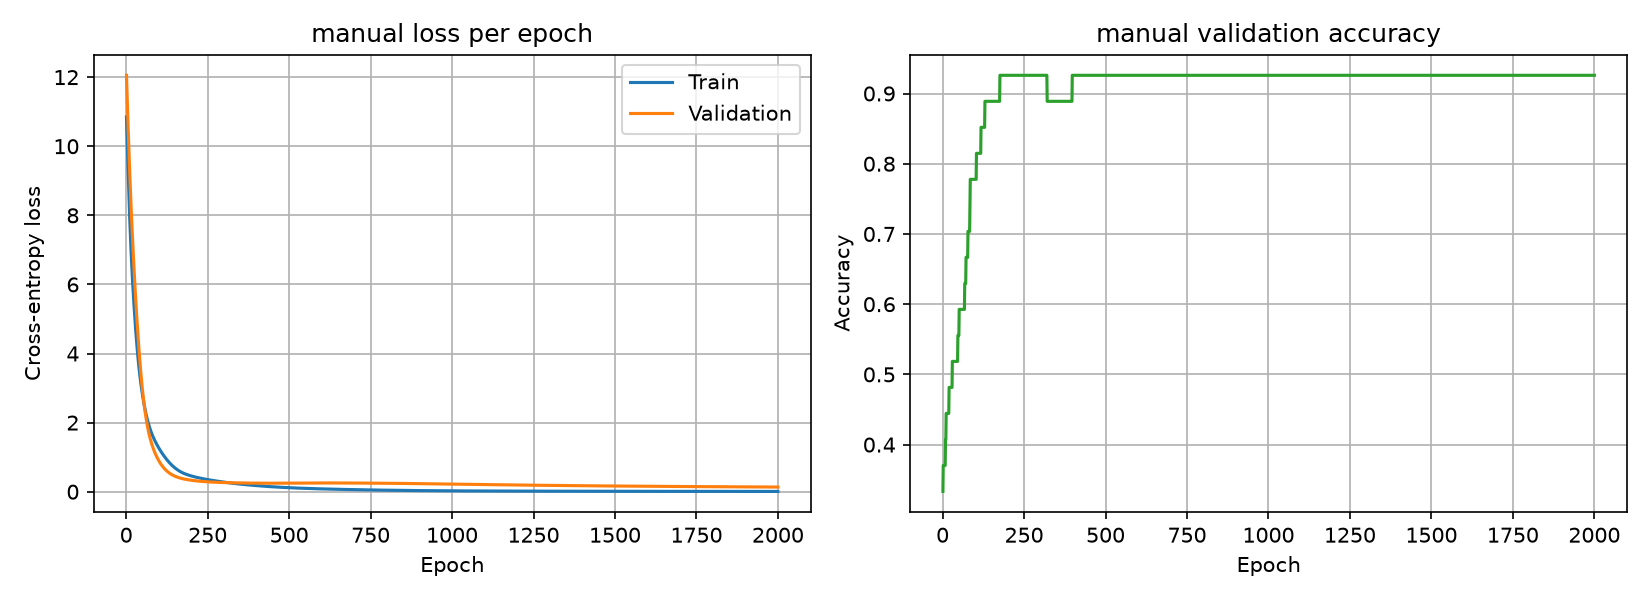
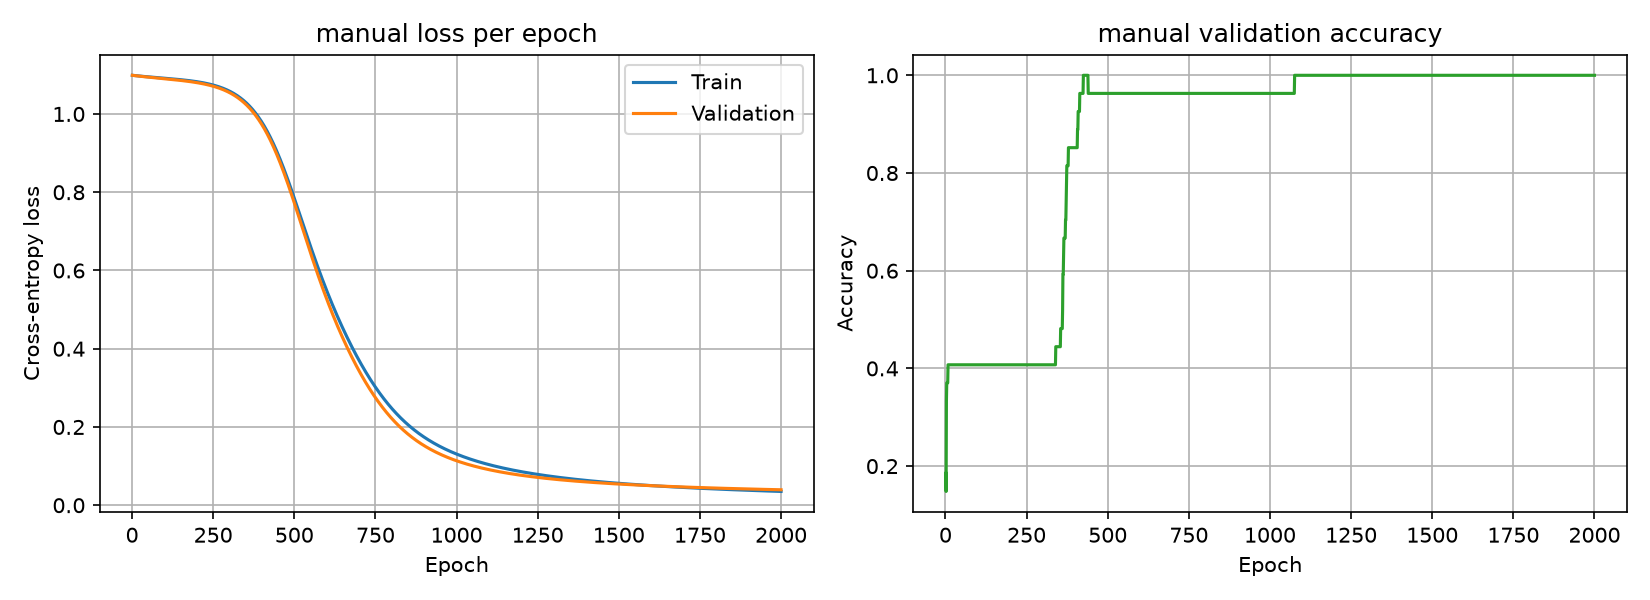
feat: implement model with torch.n

diff --git a/src/train.py b/src/train.py
@@ -19,10 +19,10 @@ class ManualWineClassification():
         """Create the starting weights and bias for two linear layer."""
         generator = torch.Generator().manual_seed(seed)
 
-        W1 = torch.randn(n_features, n_hidden, generator=generator)
+        W1 = torch.randn(n_features, n_hidden, generator=generator) * 0.01
         b1 = torch.zeros(n_hidden)
 
-        W2 = torch.randn(n_hidden, n_classes, generator=generator)
+        W2 = torch.randn(n_hidden, n_classes, generator=generator) * 0.01
         b2 = torch.zeros(n_classes)
 
         return W1, b1, W2, b2
@@ -126,7 +126,7 @@ class ManualWineClassification():
         return checkpoint
 
     def evaluate_val(self, X, y):
-        """"""
+        """Validation evaluation of train per epoch"""
         _, _, z2 = self.forward_pass(X, self.W1, self.b1, self.W2, self.b2)
 
         loss = self.loss(z2, y)
@@ -138,6 +138,7 @@ class ManualWineClassification():
         return acc, loss.item()
 
     def train_model(self, X_train, y_train, X_val, y_val, is_resume=False):
+        """Train the model"""
         epochs = self.cfg.epochs
         learning_rate = self.cfg.learning_rate
 
@@ -216,11 +217,128 @@ class ManualWineClassification():
 
 
 class AutoWineClassificationWithTorch(nn.Module):
-    def __init__(self, n_features, n_classes, cfg: Config):
+    def __init__(self, n_features, n_hidden, n_classes, checkpoint_path, cfg: Config):
         super().__init__()
 
+        self.checkpoint_path = checkpoint_path
         self.cfg = cfg
-        self.linear = nn.Linear(n_features, n_classes)
+        self.forward_pass = nn.Sequential(
+            nn.Linear(n_features, n_hidden),
+            nn.ReLU(),
+            nn.Linear(n_hidden, n_classes)
+        )
+        self.loss = nn.CrossEntropyLoss()
 
     def forward(self, X):
-        return self.linear(X)
+        return self.forward_pass(X)
+
+    def save_checkpoint(self, name, epoch, optim, train_loss_per_epoch, val_acc_per_epoch, val_loss_per_epoch, best_val_loss):
+        """Save a training checkpoint"""
+        directory = Path(self.checkpoint_path)
+        directory.mkdir(parents=True, exist_ok=True)
+
+        path = directory / name
+
+        state = {
+            "epoch": epoch,
+            "model": self.state_dict(),
+            "optimizer": optim.state_dict(),
+            "train_loss_per_epoch": train_loss_per_epoch,
+            "val_acc_per_epoch": val_acc_per_epoch,
+            "val_loss_per_epoch": val_loss_per_epoch,
+            "best_val_loss": best_val_loss,
+        }
+
+        torch.save(state, path)
+
+    def load_checkpoint(self, name):
+        """Load a training checkpoint"""
+        path = Path(self.checkpoint_path) / name
+        checkpoint = torch.load(path, map_location="cpu")
+
+        self.load_state_dict(checkpoint["model"])
+
+        return checkpoint
+
+    def train_model(self, X_train, y_train, X_val, y_val, is_resume=False):
+        """Train the model"""
+        epochs = self.cfg.epochs
+        learning_rate = self.cfg.learning_rate
+        optimizer = torch.optim.SGD(self.parameters(), lr=learning_rate)
+
+        best_val_loss = float("inf")
+
+        train_loss_per_epoch = []
+        val_acc_per_epoch = []
+        val_loss_per_epoch = []
+
+        start = 0
+
+        if is_resume:
+            checkpoint = self.load_checkpoint(
+                "last_run.pt"
+            )
+
+            optimizer.load_state_dict(checkpoint["optimizer"])
+
+            last_epoch = checkpoint["epoch"]
+            best_val_loss = checkpoint["best_val_loss"]
+            train_loss_per_epoch = checkpoint["train_loss_per_epoch"]
+            val_acc_per_epoch = checkpoint["val_acc_per_epoch"]
+            val_loss_per_epoch = checkpoint["val_loss_per_epoch"]
+
+            start = last_epoch + 1
+
+        for epoch in range(start, epochs):
+
+            self.train()
+
+            optimizer.zero_grad()
+
+            z = self(X_train)
+
+            train_loss = self.loss(z, y_train)
+
+            train_loss.backward()
+
+            optimizer.step()
+
+            self.eval()
+
+            with torch.no_grad():
+                val_z = self(X_val)
+                val_acc = (val_z.argmax(dim=1) ==
+                           y_val).float().mean().item()
+                val_loss = self.loss(val_z, y_val)
+
+            train_loss_per_epoch.append(train_loss.item())
+            val_acc_per_epoch.append(val_acc)
+            val_loss_per_epoch.append(val_loss)
+
+            if val_loss < best_val_loss:
+                best_val_loss = val_loss
+                self.save_checkpoint(
+                    "best_run.pt",
+                    epoch,
+                    optimizer,
+                    train_loss_per_epoch,
+                    val_acc_per_epoch,
+                    val_loss_per_epoch,
+                    best_val_loss
+                )
+
+        self.save_checkpoint(
+            "last_run.pt",
+            epoch,
+            optimizer,
+            train_loss_per_epoch,
+            val_acc_per_epoch,
+            val_loss_per_epoch,
+            best_val_loss
+        )
+
+        return {
+            "train_loss_per_epoch": train_loss_per_epoch,
+            "val_acc_per_epoch": val_acc_per_epoch,
+            "val_loss_per_epoch": val_loss_per_epoch
+        }

diff --git a/src/main.py b/src/main.py
@@ -44,7 +44,13 @@ def main():
         cfg=config,
     )
 
-    # auto_model = AutoWineClassificationWithTorch()
+    auto_model = AutoWineClassificationWithTorch(
+        n_features=data["X_train"].shape[1],
+        n_hidden=20,
+        n_classes=len(data["class_names"]),
+        checkpoint_path="runs/auto/",
+        cfg=config,
+    )
 
     manual_history = manual_model.train_model(
         data["X_train"],
@@ -54,20 +60,41 @@ def main():
         is_resume=False
     )
 
-    checkpoint = manual_model.load_checkpoint("best_run.pt")
+    auto_history = auto_model.train_model(
+        data["X_train"],
+        data["y_train"],
+        data["X_val"],
+        data["y_val"],
+        is_resume=False
+    )
 
-    result = evaluate_model(
+    manual_checkpoint = manual_model.load_checkpoint("best_run.pt")
+    auto_checkpoint = auto_model.load_checkpoint("best_run.pt")
+
+    manual_result = evaluate_model(
         manual_model,
         data["X_test"],
         data["y_test"],
         class_names=list(data["class_names"])
     )
 
-    print(f"loss:     {result['loss']:.4f}")
-    print(f"accuracy: {result['accuracy']:.2%}")
-    print(f"macro f1: {result['macro_f1']:.2%}")
+    auto_result = evaluate_model(
+        auto_model,
+        data["X_test"],
+        data["y_test"],
+        class_names=list(data["class_names"])
+    )
+
+    print(f"loss:     {manual_result['loss']:.4f}")
+    print(f"accuracy: {manual_result['accuracy']:.2%}")
+    print(f"macro f1: {manual_result['macro_f1']:.2%}")
+
+    print(f"loss:     {auto_result['loss']:.4f}")
+    print(f"accuracy: {auto_result['accuracy']:.2%}")
+    print(f"macro f1: {auto_result['macro_f1']:.2%}")
 
     plot_training_history("manual", manual_history)
+    plot_training_history("auto", auto_history)
 
     return 0
 

diff --git a/src/eval.py b/src/eval.py
@@ -5,14 +5,33 @@ from sklearn.metrics import (
     accuracy_score, f1_score, log_loss
 )
 
+from src.train import ManualWineClassification, AutoWineClassificationWithTorch
+
 # TODO: Add model evaluation, both for manual and auto
 # TODO: Add comparison evaluation between manual and auto
 
 
-def evaluate_model(model, X, y, class_names=None):
-    _, _, z = model.forward_pass(X, model.W1, model.b1, model.W2, model.b2)
+def evaluate_model(model: ManualWineClassification | AutoWineClassificationWithTorch, X, y, class_names=None):
 
-    probs = model.softmax(z).numpy()
+    if isinstance(model, ManualWineClassification):
+        _, _, z = model.forward_pass(X, model.W1, model.b1, model.W2, model.b2)
+
+        probs = model.softmax(z).numpy()
+        preds = z.argmax(dim=1).numpy()
+        y_true = y.numpy()
+        labels = list(range(z.shape[1]))
+
+        return {
+            "accuracy": accuracy_score(y_true, preds),
+            "loss": log_loss(y_true, probs, labels=labels),
+            "macro_f1": f1_score(y_true, preds, average="macro", zero_division=0),
+        }
+
+    model.eval()
+    z = model(X)
+
+    probs = torch.softmax(z, dim=1).double().detach().numpy()
+
     preds = z.argmax(dim=1).numpy()
     y_true = y.numpy()
     labels = list(range(z.shape[1]))
